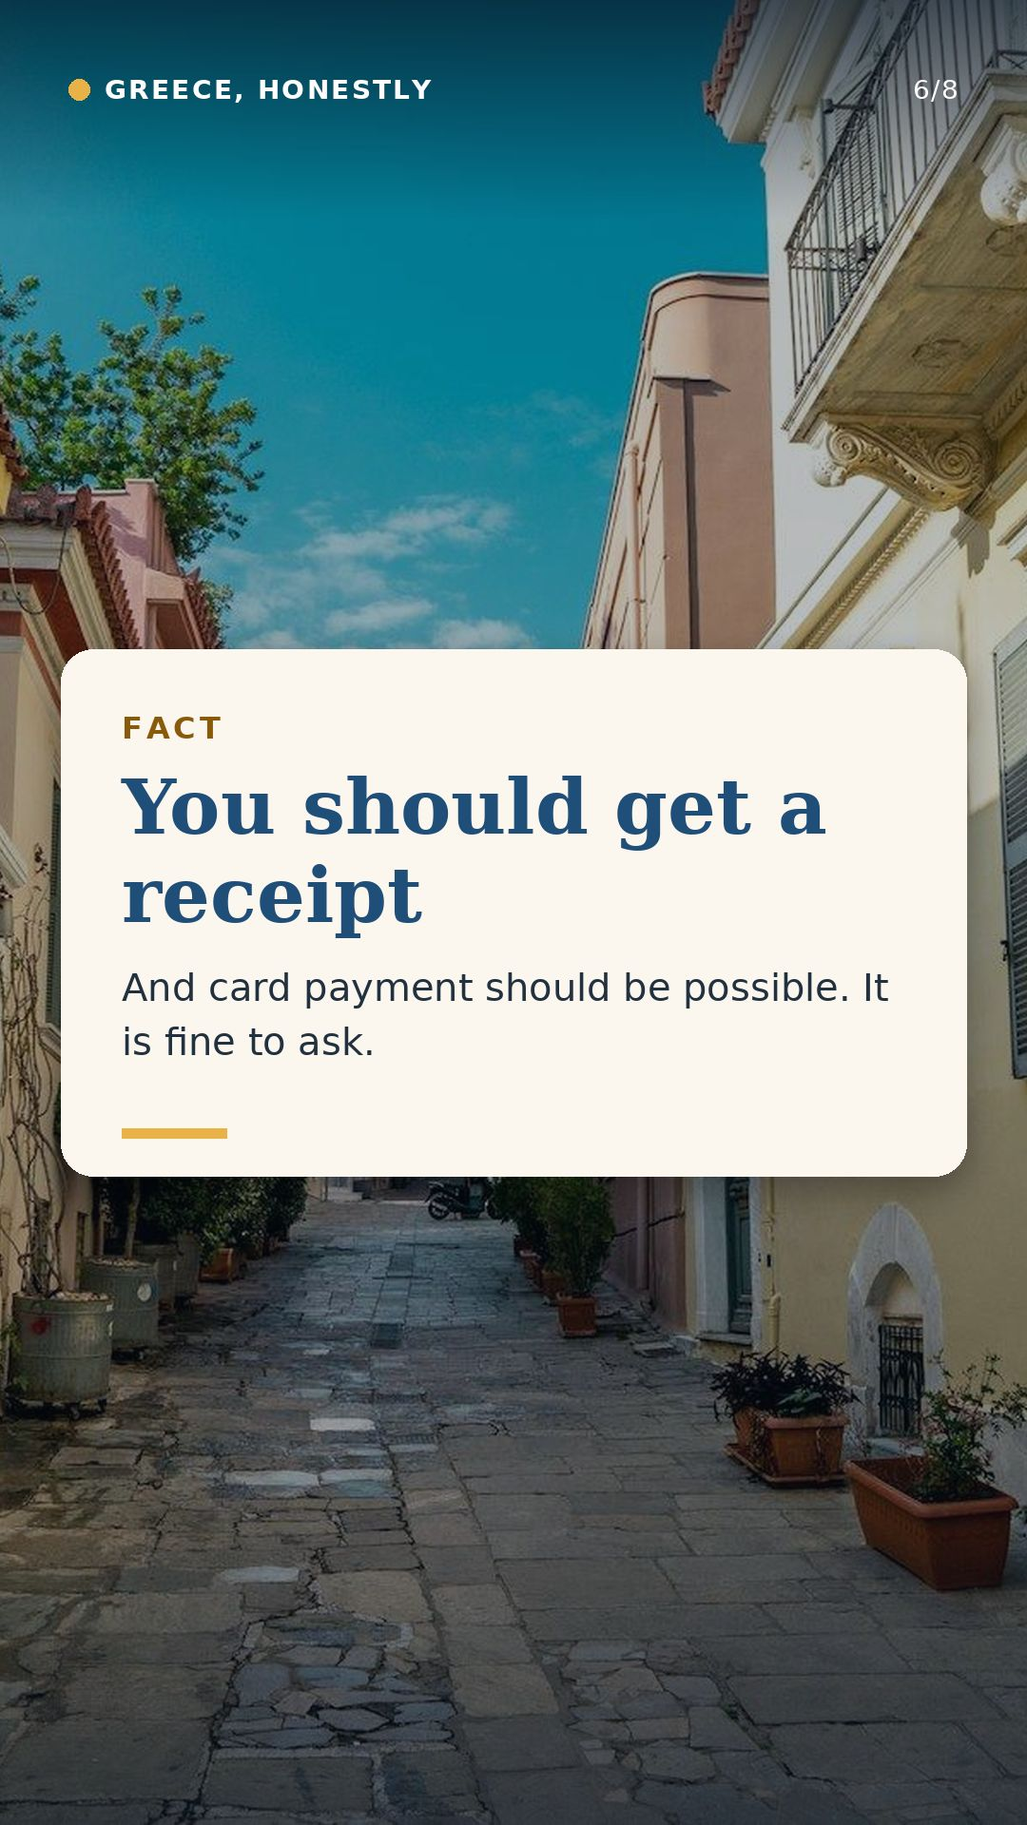
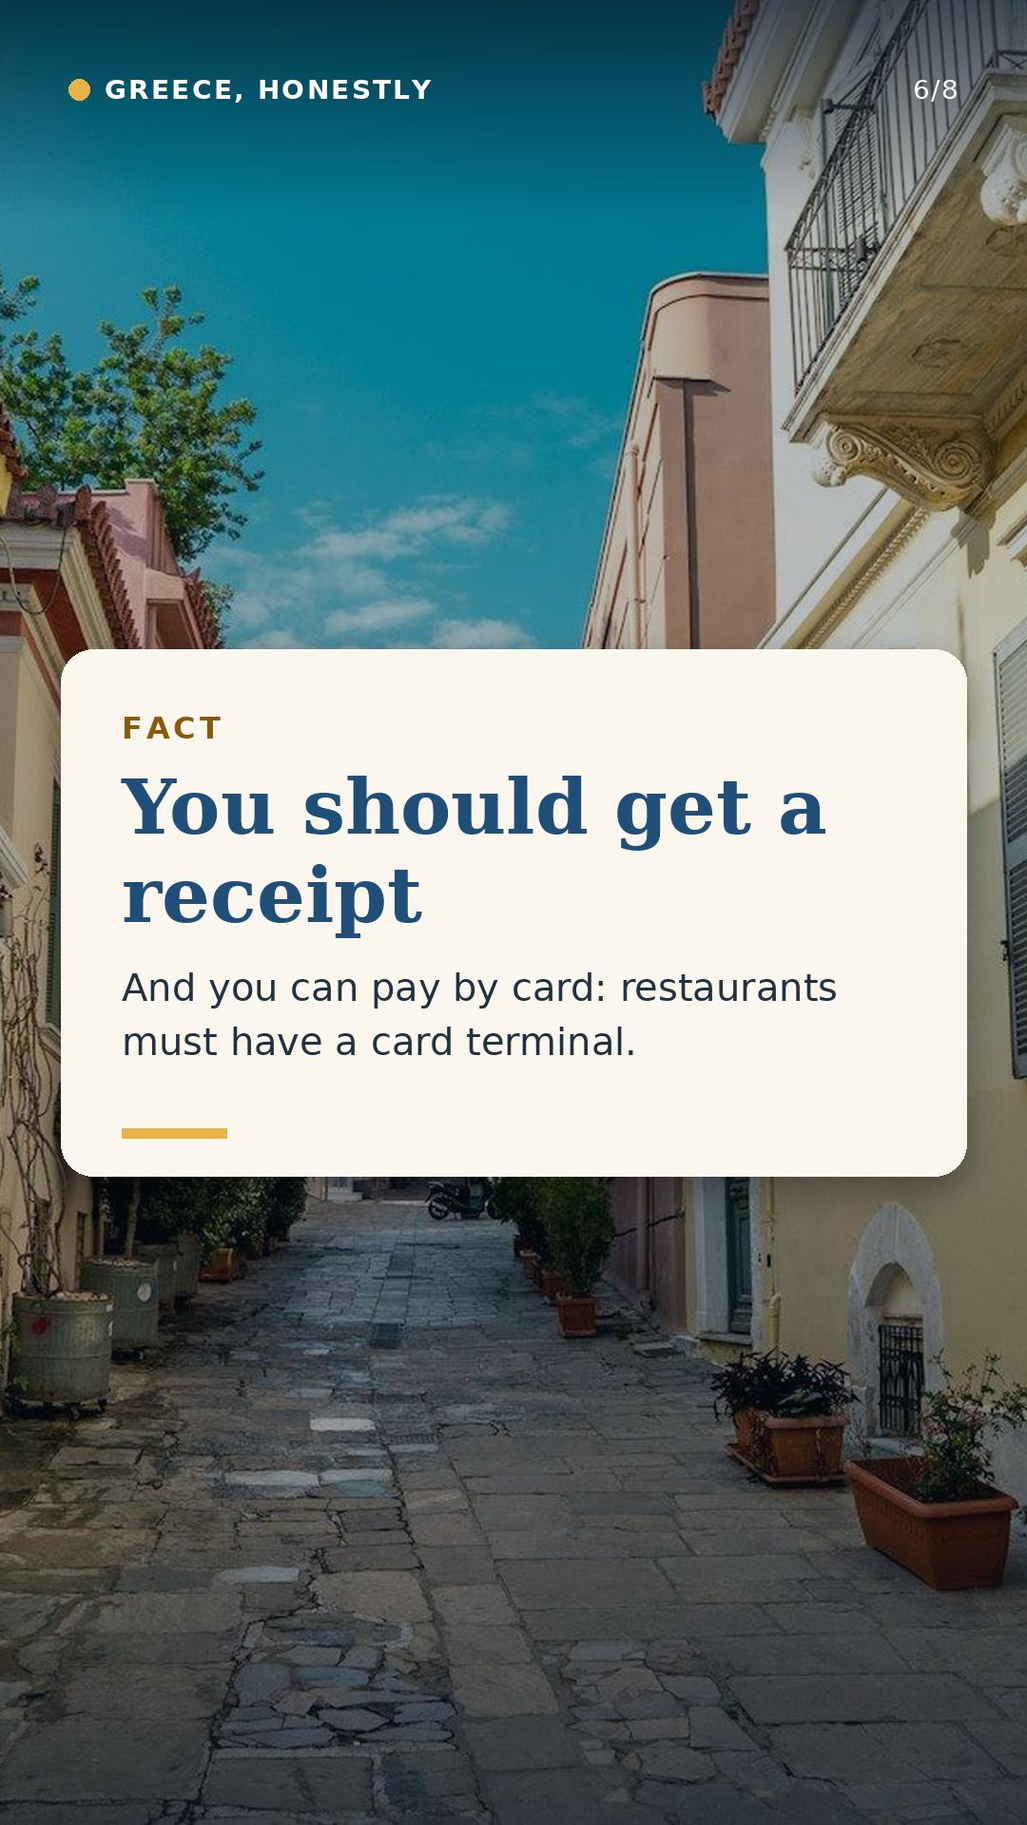
Block J: QA pass, Lafcadio Hearn fix, Saturday handoff (#14)
* Build the Greece, Honestly static site

- Node build script (marked only) generating home, 8 articles, articles list,
  guides, about, privacy, 404, sitemap.xml, robots.txt and rss.xml
- Self-hosted Noto Sans/Serif (Latin + Greek), inline CSS, no JS, no tracking
- SEO: canonical, Open Graph, Twitter card, JSON-LD Article and breadcrumbs
- Configurable SITE_URL/BASE_PATH/CNAME for a later custom domain
- Internal link checker and GitHub Pages deploy workflow

Claude-Session: https://claude.ai/code/session_01M8BpqDb4LaCuCA6Sm5Rojs

* Add digital nomad visa/permit/insurance facts, 7% deadline history; trim unsourced taverna claim

Claude-Session: https://claude.ai/code/session_01M8BpqDb4LaCuCA6Sm5Rojs

* Add Lefkada guide, Ionian comparison, renting and first-90-days articles; Payhip blog drafts

- Four new articles, each ending with a sources list
- Featured Lefkada block and the renting/first-90-days guides on the home page
- Lefkada guide linked from the island-groups and island-hopping articles
- docs/payhip-blog: four drafts for the shop blog (not part of the site build)

Claude-Session: https://claude.ai/code/session_01M8BpqDb4LaCuCA6Sm5Rojs

* Link checker: decode &amp; in URLs before requesting them

Claude-Session: https://claude.ai/code/session_01M8BpqDb4LaCuCA6Sm5Rojs

* Visual redesign: photo heroes, photo cards, product cards and content blocks

- Build crops the 20 Unsplash photos to 16:9 with sharp: 480/800/1600px WebP
[…]

Changed region(s): [[0.1222, 0.5312, 0.825, 0.5938]]

diff --git a/scripts/social.py b/scripts/social.py
@@ -17,7 +17,7 @@ car('01-taverna-bill-myths', 'Taverna bill: myths vs facts', 'Myths vs facts', [
  ('Fact', 'Fish is priced by the kilo', 'The menu price is per kilo, not per plate. Ask the weight and price before cooking.', 'corfu-boats'),
  ('Myth', '"You must tip 15%"', 'Tipping is optional. About 5–10% in cash if you were happy.', 'taverna-tables'),
  ('Fact', 'Kerasméno means on the house', 'That dessert you did not order? A gift from the taverna. Say efcharistó.', 'coffee'),
- ('Fact', 'You should get a receipt', 'And card payment should be possible. It is fine to ask.', 'athens-street'),
+ ('Fact', 'You should get a receipt', 'And you can pay by card: restaurants must have a card terminal.', 'athens-street'),
  ('Locals do this', 'Order several dishes and share', 'Plates go in the middle and everyone helps themselves. Order more later.', 'taverna-chairs'),
  ('Free guide', 'Read the full etiquette guide', 'Link in bio: Greek taverna etiquette, free on our website.', 'taverna-tables'),
 ], 'Bread on the bill? Fish by the kilo? Here is how a Greek taverna bill really works, so nothing surprises you. Free guide on our site.',
@@ -206,7 +206,7 @@ car('15-lefkada-quiz', 'Lefkada quiz', 'Quiz', [
  ('Question 1', 'How do you reach Lefkada?', 'By road, over a floating bridge from the mainland. No ferry needed.', 'lefkada-bay'),
  ('Question 2', 'Where is the nearest airport?', 'Aktion (Preveza) on the mainland, about 20 km away.', 'lefkada-beach'),
  ('Question 3', 'Why do windsurfers love Vasiliki?', 'A thermal wind builds in the bay in the afternoon.', 'lefkada-boats'),
- ('Question 4', 'Which writer was born here?', 'Lafcadio Hearn, in 1850. His middle name comes from the island.', 'lefkada-cliff'),
+ ('Question 4', 'Which writer was born here?', 'Patrick Lafcadio Hearn, in 1850. Lafcadio, his middle name, comes from the island.', 'lefkada-cliff'),
  ('Question 5', 'Calm water: west or east?', 'East. The west coast faces the open sea.', 'lefkada-boats'),
  ('Bonus', 'Egremni beach access?', 'Uncertain since the 2015 earthquake. Go by boat, and ask locally.', 'lefkada-cliff'),
  ('Free guide', 'Lefkada: a practical guide', 'Link in bio: beaches, villages and when to go.', 'lefkada-green'),

diff --git a/docs/saturday-handoff.md b/docs/saturday-handoff.md
@@ -1,0 +1,179 @@
+# Saturday handoff (7 November 2026)
+
+Everything below is merged into `main`. Work through it top to bottom. Nothing has been posted or uploaded anywhere yet.
+
+## 1. Check the live site first (5 minutes)
+
+- [ ] Open https://vasilismis.github.io/greece-honestly/ and https://vasilismis.github.io/greece-honestly/start-here/ (the build environment could not reach github.io).
+- [ ] Click a few source links that automated checks cannot reach (they return 403 to bots): any aade.gr, gov.gr and Payhip link.
+- [ ] Click every Payhip product button once (Guides page) and confirm each opens the right product.
+
+## 2. Payhip blog drafts to post
+
+Folder: `docs/payhip-blog/`. Post the `.md` file; **do not** post the matching `.sources.md` (it is for checking). Each post already ends with one product link, one site link and the AI disclosure.
+
+| Post | File | Status |
+|---|---|---|
+| Lefkada in one page | `01-lefkada-in-one-page.md` | posted (per the founder) |
+| The 7% tax: the three dates people miss | `02-seven-percent-tax-three-dates.md` | posted (per the founder) |
+| Five dishes to order on your first night in Greece | `03-five-dishes-first-night.md` | posted (per the founder) |
+| Digital nomad visa vs the 2-year permit: what changes | `04-digital-nomad-visa-vs-permit.md` | [ ] not posted |
+| Your first Greek coffee order, in one breath | `05-coffee-order-like-a-local.md` | [ ] not posted |
+| The Greek taverna bill, line by line | `06-taverna-bill-no-surprises.md` | [ ] not posted |
+| Why the AFM comes before everything else in Greece | `07-afm-before-anything.md` | [ ] not posted |
+| The Greek bank account: what to carry through the door | `08-greek-bank-account-checklist.md` | [ ] not posted |
+| Choosing an Athens neighbourhood: the two-visit rule | `09-athens-neighbourhoods-two-visits.md` | [ ] not posted |
+| After the season: picking a Greek island in October or November | `10-islands-after-the-season.md` | [ ] not posted |
+| Ferry day in Greece: a calm checklist | `11-ferry-day-checklist.md` | [ ] not posted |
+| Five sentences for a Greek pharmacy | `12-pharmacy-in-greek.md` | [ ] not posted |
+
+## 3. Carousels ready to post (TikTok and Instagram)
+
+Folder: `social/out/<slug>/`. `tiktok-01.jpg` … `tiktok-08.jpg` are 1080×1920; `instagram-01.jpg` … `instagram-08.jpg` are 1080×1350. Each folder has a `contact-sheet.jpg`. Post the slides in order with the caption below (already ends with "AI characters, written in Greece." and 6 hashtags). All captions are also in `social/out/index.md`.
+
+### Taverna bill: myths vs facts  ·  `social/out/01-taverna-bill-myths/`
+
+- [ ] TikTok  - [ ] Instagram
+
+> Bread on the bill? Fish by the kilo? Here is how a Greek taverna bill really works, so nothing surprises you. Free guide on our site. AI characters, written in Greece. #greece #greekfood #taverna #greecetravel #traveltips #eatlikealocal
+
+### Which Greek island are you?  ·  `social/out/02-island-quiz/`
+
+- [ ] TikTok  - [ ] Instagram
+
+> First trip, quiet escape, hiking or no ferries? Seven answers, seven sets of islands. Which one are you? Full guide on our site. AI characters, written in Greece. #greekislands #greece #islandhopping #greecetravel #travelquiz #visitgreece
+
+### Ordering coffee: say this, not that  ·  `social/out/03-coffee-say-this/`
+
+- [ ] TikTok  - [ ] Instagram
+
+> Skétos, métrios or glykós? In Greece you choose the sugar when you order, not after. Learn the one sentence that gets you the perfect freddo. AI characters, written in Greece. #greekcoffee #freddoespresso #greece #learngreek #coffeelover #greecetravel
+
+### The 7% tax in numbers  ·  `social/out/04-seven-percent-numbers/`
+
+- [ ] TikTok  - [ ] Instagram
+
+> A €40,000 foreign pension: about €8,900 on the normal Greek scale, or €2,800 under the 7% regime. Who qualifies, and the dates you cannot miss. AI characters, written in Greece. #retireingreece #greece #expatlife #retirementplanning #movingabroad #greektax
+
+### Things locals do at a Greek café  ·  `social/out/05-cafe-locals/`
+
+- [ ] TikTok  - [ ] Instagram
+
+> One coffee, a long chat, the sugar chosen upfront and kaló mína on the 1st. Six café habits you will spot in your first week in Greece. AI characters, written in Greece. #greece #greeklife #cafeculture #learngreek #slowtravel #greecetravel
+
+### Digital nomad visa: myths vs facts  ·  `social/out/06-nomad-myths/`
+
+- [ ] TikTok  - [ ] Instagram
+
+> Arrive as a tourist and apply later? Not any more. The 2026 rules for Greece's digital nomad visa, minus the myths. AI characters, written in Greece. #digitalnomad #greece #remotework #workfromanywhere #nomadlife #movingabroad
+
+### Financially Independent Person permit in numbers  ·  `social/out/07-fip-numbers/`
+
+- [ ] TikTok  - [ ] Instagram
+
+> Retiring to Greece from outside the EU? The Financially Independent Person permit: €3,500 a month, €4,200 for a couple, no work in Greece. AI characters, written in Greece. #retireingreece #greece #retirement #expatlife #movingabroad #residencepermit
+
+### Ne means yes: say this, not that  ·  `social/out/08-yes-means-no/`
+
+- [ ] TikTok  - [ ] Instagram
+
+> In Greek, ne means yes and óchi means no. Six small words that make a big difference in your first week. Save this one. AI characters, written in Greece. #learngreek #greeklanguage #greece #greekwords #languagelearning #greecetravel
+
+### Greek alphabet quiz  ·  `social/out/09-alphabet-quiz/`
+
+- [ ] TikTok  - [ ] Instagram
+
+> Ρ is r, Η is i and Β is v. Can you read ΦΑΡΜΑΚΕΙΟ by the end? Six letters that look English but are not. AI characters, written in Greece. #greekalphabet #learngreek #greece #languagelearning #greeklanguage #travelgreece
+
+### Things locals say  ·  `social/out/10-greek-habits/`
+
+- [ ] TikTok  - [ ] Instagram
+
+> Kaló mína, sigá-sigá, yiá mas: the little Greek phrases you will hear every day, and when to use them yourself. AI characters, written in Greece. #learngreek #greece #greekculture #greekphrases #languagelearning #slowtravel
+
+### Greek islands in winter: myths vs facts  ·  `social/out/11-winter-islands-myths/`
+
+- [ ] TikTok  - [ ] Instagram
+
+> Do the Greek islands close in winter? The small ones mostly do. The big ones keep living. Where to go in October and November. AI characters, written in Greece. #greekislands #greece #offseason #autumntravel #crete #slowtravel
+
+### Greek tax scale 2026  ·  `social/out/12-tax-scale-numbers/`
+
+- [ ] TikTok  - [ ] Instagram
+
+> Greece's 2026 tax scale for salaries and pensions: from 9% on the first €10,000 to 44% above €60,000. Save it for later. AI characters, written in Greece. #greektax #greece #expatlife #movingabroad #personalfinance #retireingreece
+
+### At the pharmacy: say this  ·  `social/out/13-pharmacy-say-this/`
+
+- [ ] TikTok  - [ ] Instagram
+
+> A headache, sunburn, a sore throat. Five Greek sentences for the pharmacy, and how to find one open at night. AI characters, written in Greece. #learngreek #greece #traveltips #greecetravel #greekphrases #travelhealth
+
+### Ferry habits of people who know  ·  `social/out/14-ferry-locals/`
+
+- [ ] TikTok  - [ ] Instagram
+
+> Original ID, an hour early, one ferry line and never a ferry on flight day. Six habits that keep Greek ferry days calm. AI characters, written in Greece. #greekferries #greekislands #islandhopping #greece #traveltips #greecetravel
+
+### Lefkada quiz  ·  `social/out/15-lefkada-quiz/`
+
+- [ ] TikTok  - [ ] Instagram
+
+> A floating bridge, a famous afternoon wind and a writer named after the island. How many of these Lefkada questions can you answer? AI characters, written in Greece. #lefkada #lefkas #ionianislands #greece #greekislands #travelquiz
+
+### Renting in Greece: myths vs facts  ·  `social/out/16-renting-myths/`
+
+- [ ] TikTok  - [ ] Instagram
+
+> A one-year lease that lasts three years? Registering with the tax office? What surprises first-time renters in Greece, and how to be ready. AI characters, written in Greece. #rentingreece #athens #greece #expatlife #movingabroad #firstapartment
+
+### Golden Visa in numbers  ·  `social/out/17-golden-visa-numbers/`
+
+- [ ] TikTok  - [ ] Instagram
+
+> €800,000, €400,000 or €250,000: Greece's Golden Visa thresholds, the 120 m² rule and the short-term rental ban, in eight slides. AI characters, written in Greece. #goldenvisa #greece #realestate #residencybyinvestment #movingabroad #greekproperty
+
+### First 90 days: myths vs facts  ·  `social/out/18-first-90-myths/`
+
+- [ ] TikTok  - [ ] Instagram
+
+> Bank first? Not in Greece. AFM, phone, a registered lease, then the bank and AMKA. The order that saves you second trips. AI characters, written in Greece. #movingtogreece #greece #expatlife #movingabroad #greekbureaucracy #newbeginnings
+
+### Greek holidays 2027 quiz  ·  `social/out/19-holidays-quiz/`
+
+- [ ] TikTok  - [ ] Instagram
+
+> Orthodox Easter 2027 is on 2 May. Do you know when Clean Monday and Whit Monday fall? Quiz yourself before you plan. AI characters, written in Greece. #greece #greekholidays #greekeaster #travelplanning #greekculture #visitgreece
+
+### Island hopping: myths vs facts  ·  `social/out/20-island-hopping-myths/`
+
+- [ ] TikTok  - [ ] Instagram
+
+> Five islands in ten days sounds great until you spend it in ports. Two or three islands, three nights each. Here is why. AI characters, written in Greece. #islandhopping #greekislands #greece #cyclades #travelplanning #greecetravel
+
+## 4. The two new paid guides
+
+| Guide | Listing | Cover (KDP) | Thumbnail | Suggested price |
+|---|---|---|---|---|
+| Lefkada & the Ionian Islands, Honestly | `guides/ionian-islands-honestly/listing.md` | `guides/ionian-islands-honestly/out/cover-1600x2560.jpg` | `…/out/thumbnail-1000x1000.jpg` | €9 |
+| Athens for New Residents | `guides/athens-for-new-residents/listing.md` | `guides/athens-for-new-residents/out/cover-1600x2560.jpg` | `…/out/thumbnail-1000x1000.jpg` | €9 |
+
+- [ ] **The PDFs and EPUBs are not in this repository** (it is public, so they would be free to download). Use the zip `greece-honestly-paid-guides-v2.zip` handed over on 2 November (it contains `content.md`, A4 and US Letter PDFs, EPUB, cover, thumbnail). Keep it somewhere private.
+- [ ] Run the EPUBs through epubcheck or the store's own validator before uploading (could not be run in the build environment).
+- [ ] Create both products on Payhip, then add their Payhip links to `src/site.mjs` (`guides`), to the "Our other guides" lists at the end of each guide's `content.md`, and rebuild (`python3 guides/build.py`).
+
+## 5. Things that need a human (could not be confirmed online)
+
+- [ ] **Navagio (Zakynthos):** the access ban ran to 31 October 2026 (Gazette B' 3033/28.05.2026). No follow-up decision had been published on 2 November. Update the Ionian guide and `ionian-islands-compared` when it is.
+- [ ] **1 May 2027:** falls on Holy Saturday. Watch for a Ministry of Labour decision (in 2024 the holiday moved to 7 May for the public sector) and update `greek-public-holidays-2027` and the Athens guide.
+- [ ] **S1 registration:** GOV.UK says EOPYY; EOPYY's own cross-border page says e-EFKA. A phone call to a KEP or EOPYY would settle it; the texts currently state both.
+- [ ] **Department of Aliens of Athens opening hours:** not published reliably. Phone 210 340 5807 or email tallodathinon@astynomia.gr and add the hours to the Athens guide.
+- [ ] **Rental deposits:** no legal cap or refund deadline was found. A Greek lawyer could confirm there is none.
+- [ ] **Pharmacy phrases and Athens phrases 13–20:** standard Greek, but not found word for word in a cited source. A Greek speaker should read them once.
+- [ ] **Guide prices shown as "see shop"** (Survival Greek, First 90 Days, Renting kit): add the real prices to `src/site.mjs` if you want them on the site.
+- [ ] **Contact email:** still a placeholder on About and Privacy (set the `CONTACT_EMAIL` repository variable).
+
+## 6. Housekeeping (optional)
+
+- GitHub warns that actions in `.github/workflows/deploy.yml` run on a Node 20 runtime that is being retired; bump `actions/checkout`, `setup-node`, `upload-pages-artifact` and `deploy-pages` to their latest major versions when convenient.
+- With a custom domain (`SITE_URL`, `BASE_PATH=/`, `CNAME` variables), `robots.txt` will sit at the domain root and the Lighthouse SEO score rises from 92.

diff --git a/docs/social/15-lefkada-quiz.md b/docs/social/15-lefkada-quiz.md
@@ -9,7 +9,7 @@
 | 2 | Question 1 | How do you reach Lefkada? | By road, over a floating bridge from the mainland. No ferry needed. | `lefkada-bay.jpg` |
 | 3 | Question 2 | Where is the nearest airport? | Aktion (Preveza) on the mainland, about 20 km away. | `lefkada-beach.jpg` |
 | 4 | Question 3 | Why do windsurfers love Vasiliki? | A thermal wind builds in the bay in the afternoon. | `lefkada-boats.jpg` |
-| 5 | Question 4 | Which writer was born here? | Lafcadio Hearn, in 1850. His middle name comes from the island. | `lefkada-cliff.jpg` |
+| 5 | Question 4 | Which writer was born here? | Patrick Lafcadio Hearn, in 1850. Lafcadio, his middle name, comes from the island. | `lefkada-cliff.jpg` |
 | 6 | Question 5 | Calm water: west or east? | East. The west coast faces the open sea. | `lefkada-boats.jpg` |
 | 7 | Bonus | Egremni beach access? | Uncertain since the 2015 earthquake. Go by boat, and ask locally. | `lefkada-cliff.jpg` |
 | 8 | Free guide | Lefkada: a practical guide | Link in bio: beaches, villages and when to go. | `lefkada-green.jpg` |

diff --git a/docs/payhip-blog/01-lefkada-in-one-page.md b/docs/payhip-blog/01-lefkada-in-one-page.md
@@ -20,7 +20,7 @@ If you only read one thing before a trip to Lefkada, make it this.
 
 **Go up the mountain.** Karya is known for its embroidery and Eglouvi for its small lentils. Both are a winding drive from the coast, and both are a different world from the beach resorts.
 
-**Look up in town.** Many houses in Lefkada town have a stone ground floor and a light timber upper floor clad in painted metal, a local way of building to cope with earthquakes. The writer Lafcadio Hearn was born on the island in 1850 and took his middle name from it.
+**Look up in town.** Many houses in Lefkada town have a stone ground floor and a light timber upper floor clad in painted metal, a local way of building to cope with earthquakes. The writer Patrick Lafcadio Hearn was born on the island in 1850; Lafcadio, his middle name, comes from it.
 
 **When:** May, June and September are the sweet spots. August is busiest, especially around the 15th. The town hosts its International Folklore Festival in August.
 

diff --git a/docs/social/01-taverna-bill-myths.md b/docs/social/01-taverna-bill-myths.md
@@ -10,7 +10,7 @@
 | 3 | Fact | Fish is priced by the kilo | The menu price is per kilo, not per plate. Ask the weight and price before cooking. | `corfu-boats.jpg` |
 | 4 | Myth | "You must tip 15%" | Tipping is optional. About 5–10% in cash if you were happy. | `taverna-tables.jpg` |
 | 5 | Fact | Kerasméno means on the house | That dessert you did not order? A gift from the taverna. Say efcharistó. | `coffee.jpg` |
-| 6 | Fact | You should get a receipt | And card payment should be possible. It is fine to ask. | `athens-street.jpg` |
+| 6 | Fact | You should get a receipt | And you can pay by card: restaurants must have a card terminal. | `athens-street.jpg` |
 | 7 | Locals do this | Order several dishes and share | Plates go in the middle and everyone helps themselves. Order more later. | `taverna-chairs.jpg` |
 | 8 | Free guide | Read the full etiquette guide | Link in bio: Greek taverna etiquette, free on our website. | `taverna-tables.jpg` |
 

diff --git a/src/articles/greece-digital-nomad-visa-2026.md b/src/articles/greece-digital-nomad-visa-2026.md
@@ -120,7 +120,7 @@ An hour with an accountant who knows both countries is worth more than any forum
 3. Get the type D visa at a Greek consulate **before** you travel; you cannot switch from tourist status.
 4. The national visa fee in the law is €75; the visa is valid for up to 12 months, and the residence permit lasts 2 years and is renewable.
 5. You need full health insurance covering Greece; travel insurance is not enough.
-6. Expect to become a Greek tax resident if you stay more than 183 days, and do not count on the 50% tax break.
+6. Expect to become a Greek tax resident if you stay more than 183 days in any 12-month period, and do not count on the 50% tax break.
 
 If you are thinking about Greece as a long-term base rather than a remote-work stint, the rules for the [Financially Independent Person permit](/articles/retiring-to-greece-2026/) are worth a look too, though that permit does not allow you to work in Greece at all.
 

diff --git a/src/articles/lefkada-travel-guide.md b/src/articles/lefkada-travel-guide.md
@@ -92,7 +92,7 @@ Lefkada town sits right by the bridge and lagoon. Walk the old streets and look 
 **Two cultural notes:**
 
 - **The August festivals.** Lefkada's arts and literature events have been held since 1955, and the International Folklore Festival since 1962. The folklore festival takes place in August and brings dance and music groups from many countries to the town. Check the exact dates each year.
-- **Lafcadio Hearn.** The writer Lafcadio Hearn, famous for his books about Japan, was born on Lefkada in 1850. His middle name, Lafcadio, comes from the island's name.
+- **Lafcadio Hearn.** The writer Patrick Lafcadio Hearn, famous for his books about Japan, was born on Lefkada in 1850. Lafcadio, his middle name, comes from the island's name.
 
 ## When to go
 

diff --git a/src/articles/greek-island-hopping-three-routes.md b/src/articles/greek-island-hopping-three-routes.md
@@ -33,7 +33,7 @@ These four rules will save most trips:
 **Ferry times change every year.** Always check the current schedules for your dates before you book anything that cannot be changed.
 :::
 
-## Route 1: Classic Cyclades (10–12 days)
+## Route 1: classic Cyclades (10–12 days)
 
 The famous islands, in an order that flows.
 
@@ -50,7 +50,7 @@ The famous islands, in an order that flows.
 
 **Tip:** if your dates are flexible, Santorini is at its best in May or October, when it is less crowded than midsummer. With 10–12 days, you can add a spare night in Athens at either end.
 
-## Route 2: Quiet Cyclades (10 days)
+## Route 2: quiet Cyclades (10 days)
 
 The same island group, a completely different mood. Smaller islands, fewer crowds.
 

diff --git a/src/articles/what-to-order-in-a-greek-taverna.md b/src/articles/what-to-order-in-a-greek-taverna.md
@@ -16,7 +16,7 @@ Here is how it works, plus ten dishes worth knowing.
 :::facts
 food | Order | Several dishes, and share
 euro | Bread | Usually charged
-doc | Receipt | You should get one; card payment should be possible
+doc | Receipt | You should get one, and you can pay by card
 check | Tip | Optional, about 5–10% in cash
 :::
 
